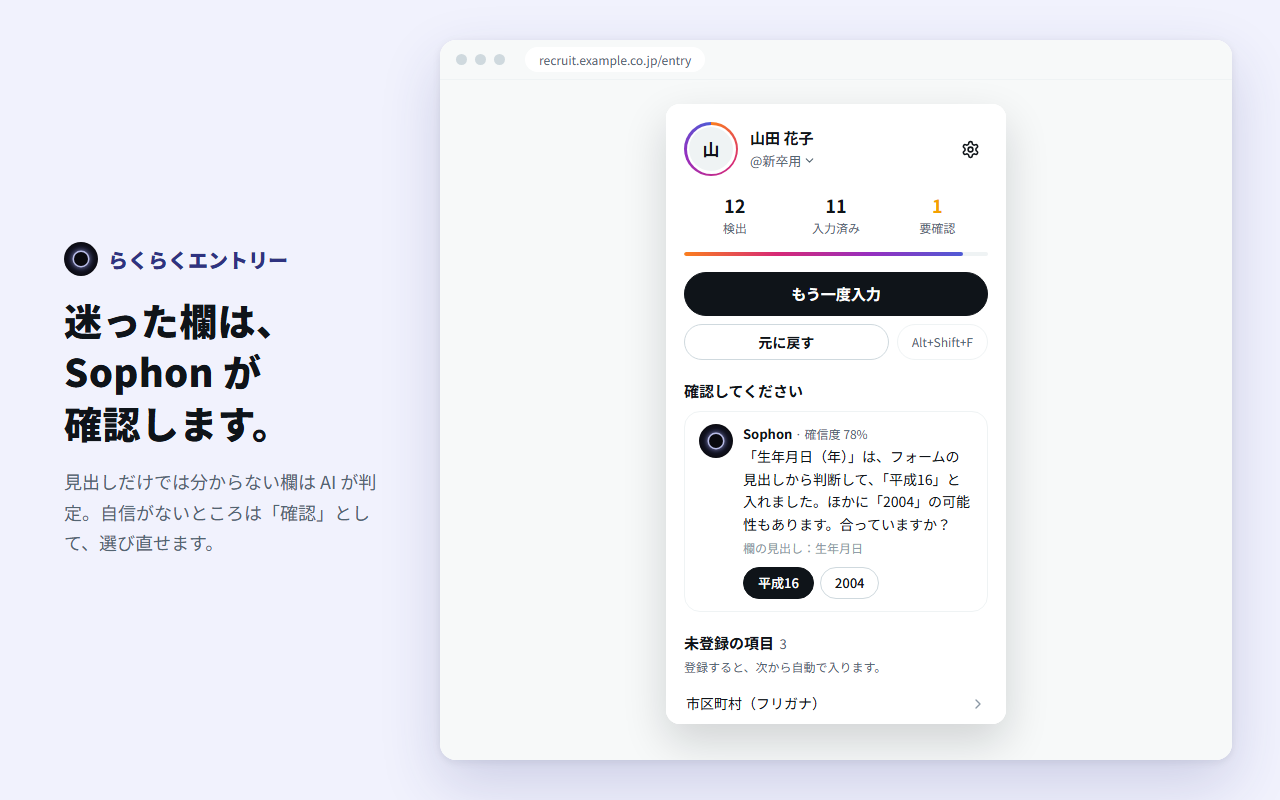
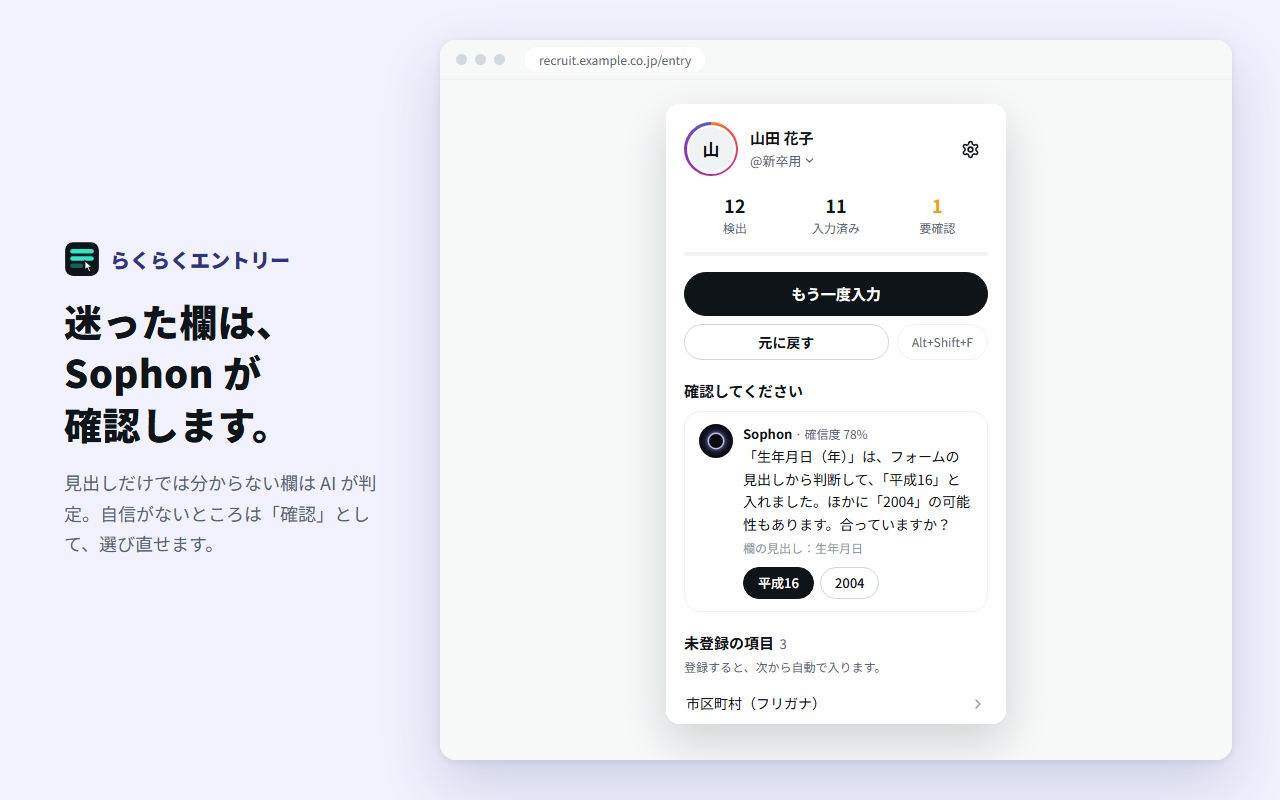
アイコンを入力欄とカーソルのデザインに変えた
- 拡張機能のアイコン（16〜128px）を新しいデザイン（黒地にミント色の入力欄と白いカーソル）に差し替え
- アイコンの元データ store/icon.svg とストア用アイコン（128px）を追加
- ストア用のスクリーンショットとプロモ画像のマークも新しいアイコンにした

diff --git a/store/screens/tile.html b/store/screens/tile.html
@@ -6,6 +6,7 @@
       html, body { margin: 0; width: 440px; height: 280px; overflow: hidden; }
       body { background: #f1f2fd; display: flex; flex-direction: column; justify-content: center; gap: 14px; padding: 0 36px; box-sizing: border-box;
         font-family: "Noto Sans JP", "Hiragino Sans", "Yu Gothic UI", "Meiryo", sans-serif; color: #0f1419; }
+      .logo { width: 42px; height: 42px; }
       .brand { display: flex; align-items: center; gap: 10px; font-weight: 800; font-size: 26px; color: #2f3380; }
       .orb { width: 40px; height: 40px; border-radius: 50%; display: flex; align-items: center; justify-content: center;
         background: radial-gradient(circle at 50% 50%, #34386a 0%, #23264a 28%, #121322 52%, #0a0a0f 72%); }
@@ -16,7 +17,7 @@
     </style>
   </head>
   <body>
-    <div class="brand"><span class="orb"></span>らくらくエントリー</div>
+    <div class="brand"><img class="logo" src="../icon.svg" alt="" />らくらくエントリー</div>
     <h1>応募フォームを、<br />ワンクリックで。<span class="stamp">済</span></h1>
   </body>
 </html>

diff --git a/store/screens/icon.html b/store/screens/icon.html
@@ -1,0 +1,11 @@
+<!doctype html>
+<html><head><meta charset="UTF-8" /><style>html,body{margin:0;background:transparent;overflow:hidden;width:100vw;height:100vh}svg{display:block}</style></head>
+<body><svg width="100%" height="100%" xmlns="http://www.w3.org/2000/svg" viewBox="0 0 128 128">
+  <!-- らくらくエントリーのアイコン：黒地に入力欄とカーソル（C6） -->
+  <rect x="4" y="4" width="120" height="120" rx="28" fill="#0F1419"/>
+  <rect x="22" y="28" width="84" height="16" rx="8" fill="#2EE6C5"/>
+  <rect x="22" y="54" width="84" height="16" rx="8" fill="#2EE6C5"/>
+  <rect x="22" y="80" width="46" height="16" rx="8" fill="#2EE6C5" fill-opacity=".35"/>
+  <path transform="translate(74 70)" d="M0 0 v34 l8.5 -8 l6.5 14 l6.5 -3 l-6.5 -13.5 h12 z" fill="#fff" stroke="#0F1419" stroke-width="4" stroke-linejoin="round"/>
+</svg>
+</body></html>

diff --git a/store/screens/shot.css b/store/screens/shot.css
@@ -3,6 +3,7 @@ html, body { margin: 0; width: 1280px; height: 800px; overflow: hidden; }
 body { display: grid; grid-template-columns: 440px 1fr; background: #f1f2fd;
   font-family: "Noto Sans JP", "Hiragino Sans", "Yu Gothic UI", "Meiryo", sans-serif; color: #0f1419; }
 .copy { padding: 0 48px 0 64px; display: flex; flex-direction: column; justify-content: center; gap: 18px; }
+.copy .logo { width: 36px; height: 36px; }
 .copy .brand { display: flex; align-items: center; gap: 10px; font-weight: 800; font-size: 20px; color: #2f3380; }
 .copy .orb { width: 34px; height: 34px; border-radius: 50%; display: flex; align-items: center; justify-content: center;
   background: radial-gradient(circle at 50% 50%, #34386a 0%, #23264a 28%, #121322 52%, #0a0a0f 72%); }

diff --git a/store/screens/shot1.html b/store/screens/shot1.html
@@ -19,7 +19,7 @@
   </head>
   <body>
     <div class="copy">
-      <div class="brand"><span class="orb"></span>らくらくエントリー</div>
+      <div class="brand"><img class="logo" src="../icon.svg" alt="" />らくらくエントリー</div>
       <h1>応募フォームを、<br />ワンクリックで。</h1>
       <p>登録したプロフィールを、企業ごとに違うフォームに合わせて入力。和暦や全角・半角も自動で合わせます。</p>
     </div>

diff --git a/store/screens/shot2.html b/store/screens/shot2.html
@@ -10,7 +10,7 @@
   </head>
   <body>
     <div class="copy">
-      <div class="brand"><span class="orb"></span>らくらくエントリー</div>
+      <div class="brand"><img class="logo" src="../icon.svg" alt="" />らくらくエントリー</div>
       <h1>迷った欄は、<br />Sophon が<br />確認します。</h1>
       <p>見出しだけでは分からない欄は AI が判定。自信がないところは「確認」として、選び直せます。</p>
     </div>

diff --git a/store/screens/shot3.html b/store/screens/shot3.html
@@ -9,7 +9,7 @@
   </head>
   <body>
     <div class="copy">
-      <div class="brand"><span class="orb"></span>らくらくエントリー</div>
+      <div class="brand"><img class="logo" src="../icon.svg" alt="" />らくらくエントリー</div>
       <h1>プロフィールは、<br />あなたの端末の<br />中だけに。</h1>
       <p>まずは氏名と連絡先だけでOK。細かい項目は、聞かれたときに足していけます。</p>
     </div>

diff --git a/store/listing.md b/store/listing.md
@@ -83,7 +83,7 @@ https://api.rakuraku-entry.com/privacy
 
 ## スクリーンショット（1280×800）
 
-`store/screenshots/` の PNG を使う。
+`store/screenshots/` の PNG を使う（スクリーンショット3枚・`promo-tile-440x280.png`）。ストアアイコンは `store-icon-128.png`。アイコンの元データは `store/icon.svg`。
 
 ## 公開前のチェック
 
